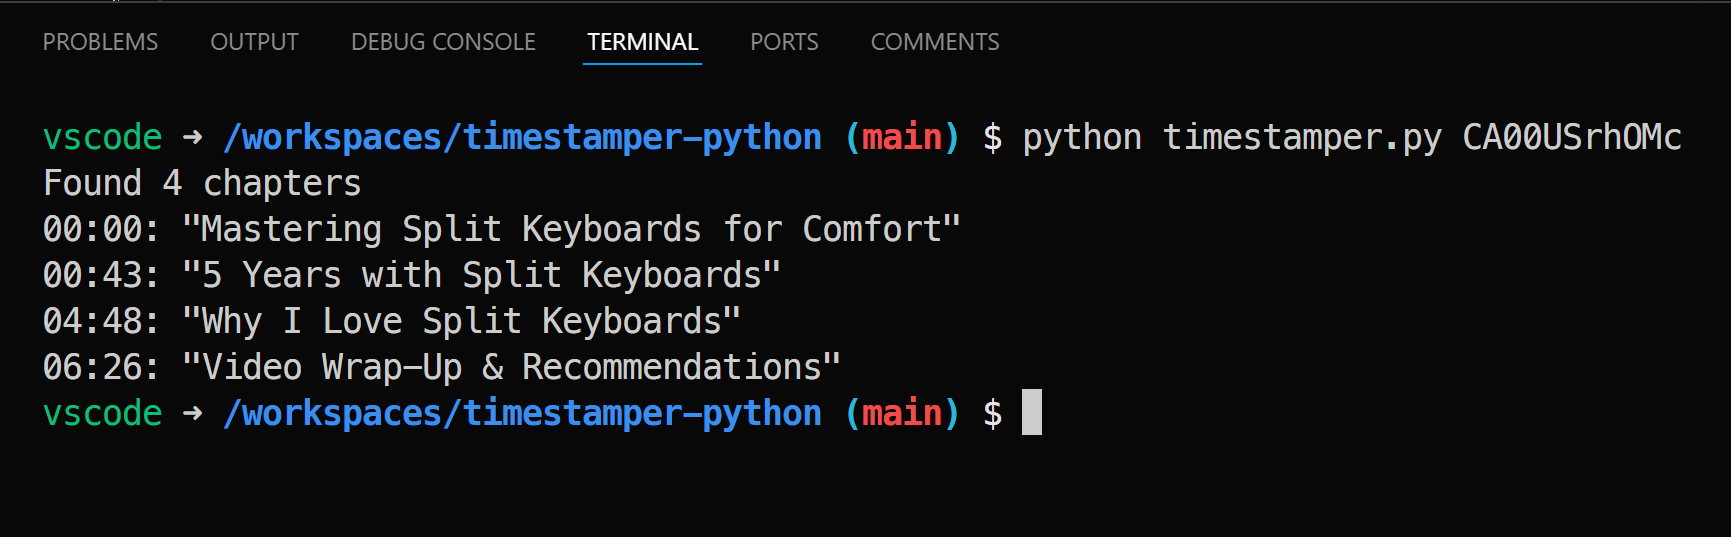
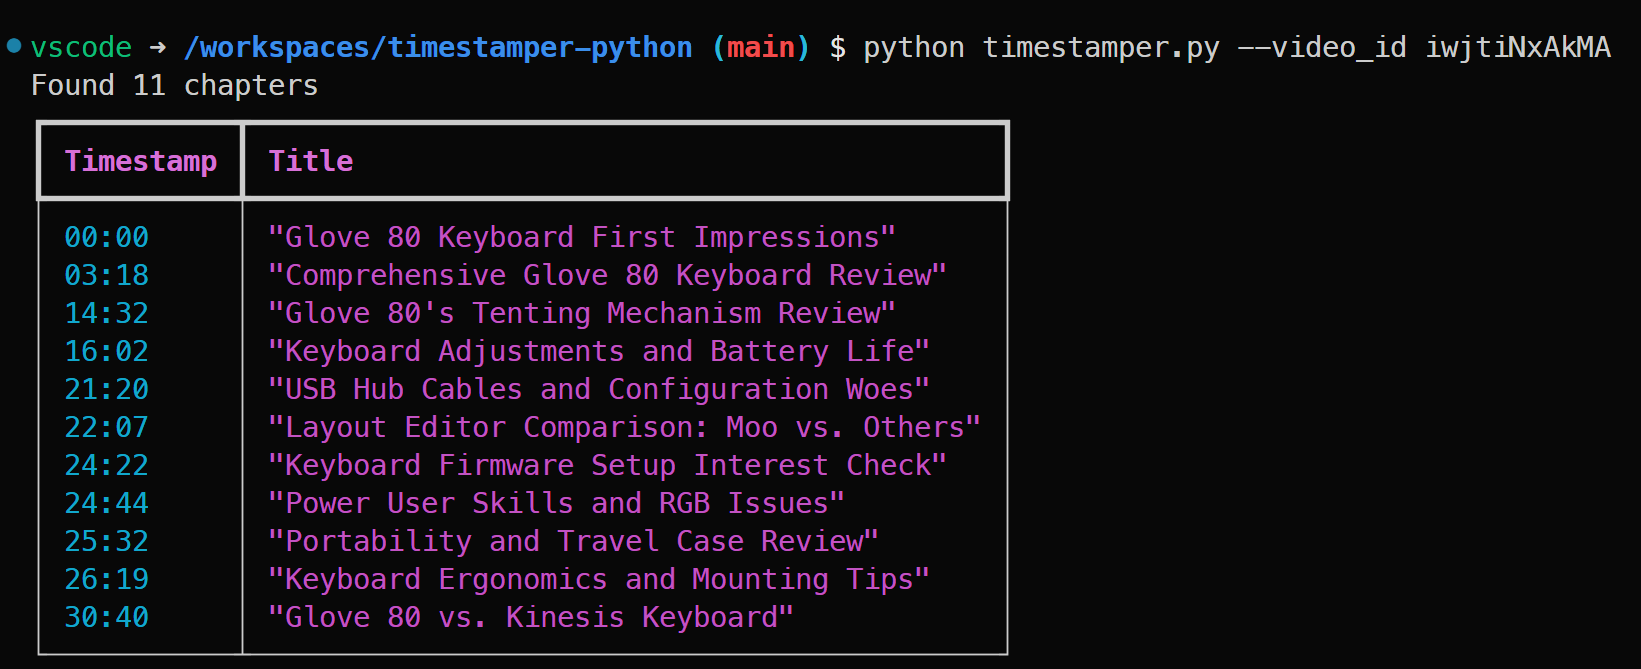
updates to readme

Changed region(s): [[0.0, 0.1788, 0.9634, 0.9832], [0.0, 0.0596, 0.9945, 0.149], [0.0, 0.0, 1.0, 0.0298]]

diff --git a/timestamper.py b/timestamper.py
@@ -151,7 +151,7 @@ def generate_chapter_titles(video_id):
     chapters = split_into_chapters_by_topic(captions)
     print(f"Found {len(chapters)} chapters")
     
-    table = Table(title="Chapter Titles", show_header=False)
+    table = Table(title="", show_header=True, header_style="bold magenta")
     table.add_column("Timestamp", style="cyan") 
     table.add_column("Title", style="magenta")  
     

diff --git a/README.md b/README.md
@@ -19,7 +19,7 @@ Timestamper is a Python CLI tool that generates YouTube timestamps for a video b
     ENDPOINT=YOUR_ENDPOINT
     DEPLOYMENT_NAME=YOUR_DEPLOYMENT_NAME
     ```
-4. Run the script using `python timestamper.py {video_id}`
+4. Run the script using `python timestamper.py --video_id {video_id}`
 
 ## Contributing
 
